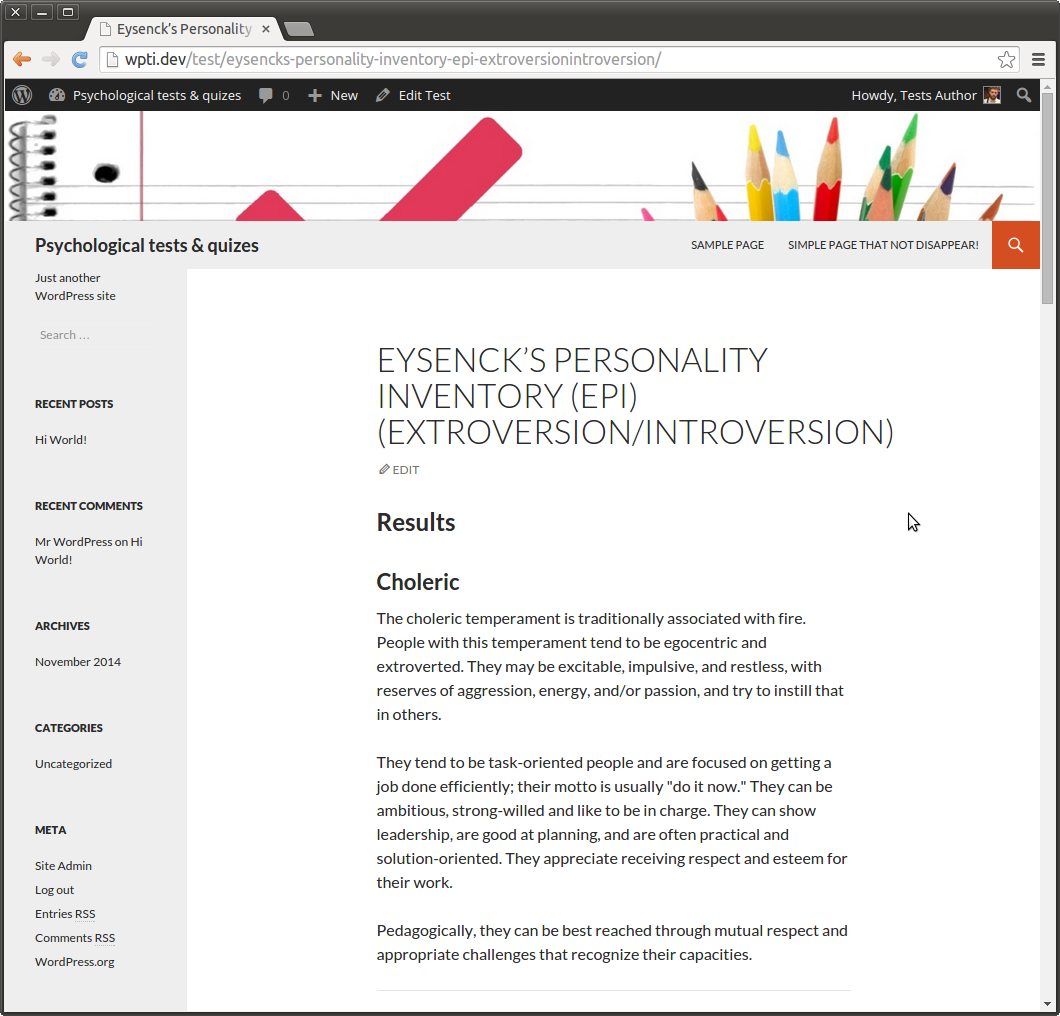
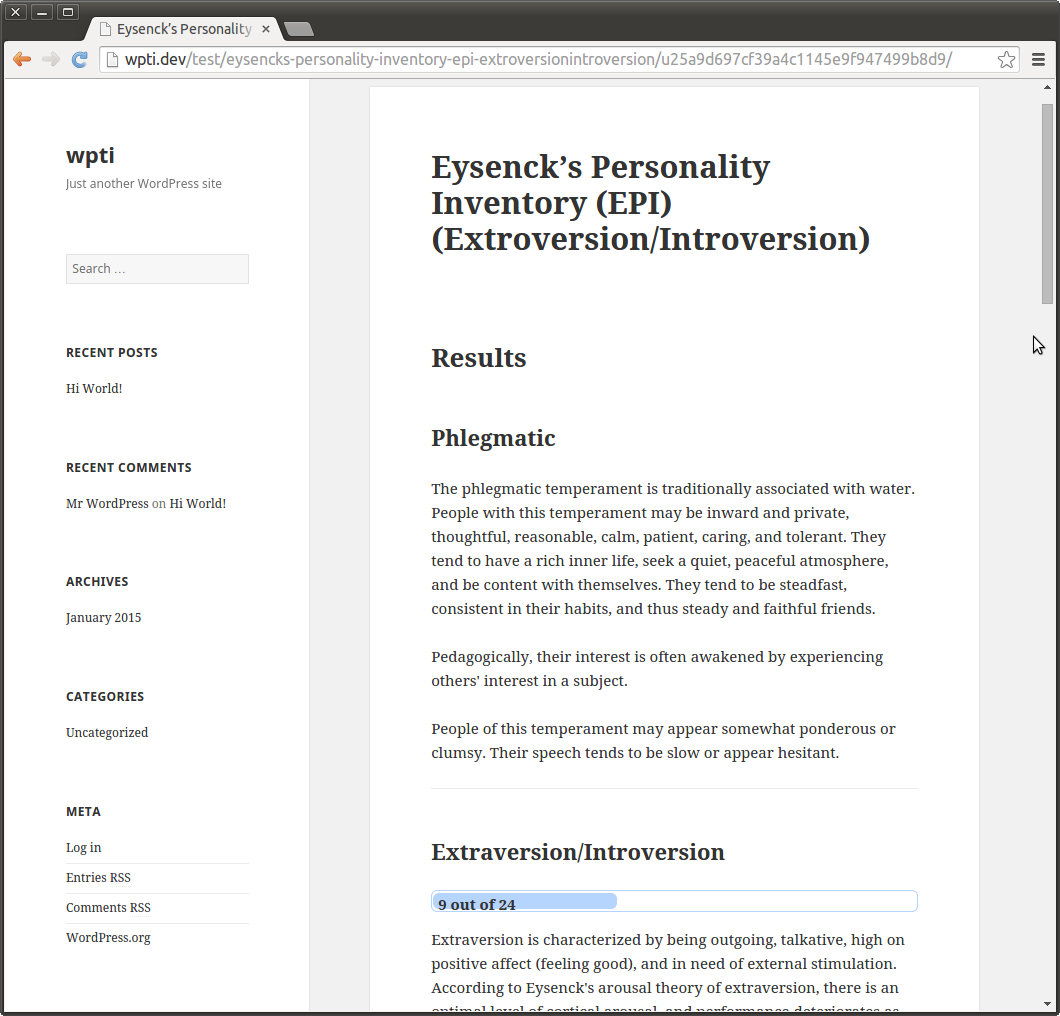
Update screenshots for new results URLs

diff --git a/README.md b/README.md
@@ -71,7 +71,6 @@ PS: **If something broken or doesn't work**, pls create new topic in ["Support" 
 08. The page with the description of the test, questions and answers
 09. The button is desabled untill all questions are not answered
 10. Get test results after all questions are answered
-11. The results page
-12. The result page contains both the result of the test and the scales that create a result
-13. The example of the test without  scores. Some answers are individual and some are individualized
-14. A test without scores is shown like a "Test is under construction". Answers titles are those that was entered
+11. The result page on it's own URL contains both the result of the test and the scales that create a result
+12. The example of the test without  scores. Some answers are individual and some are individualized
+13. A test without scores is shown like a "Test is under construction". Answers titles are those that was entered
